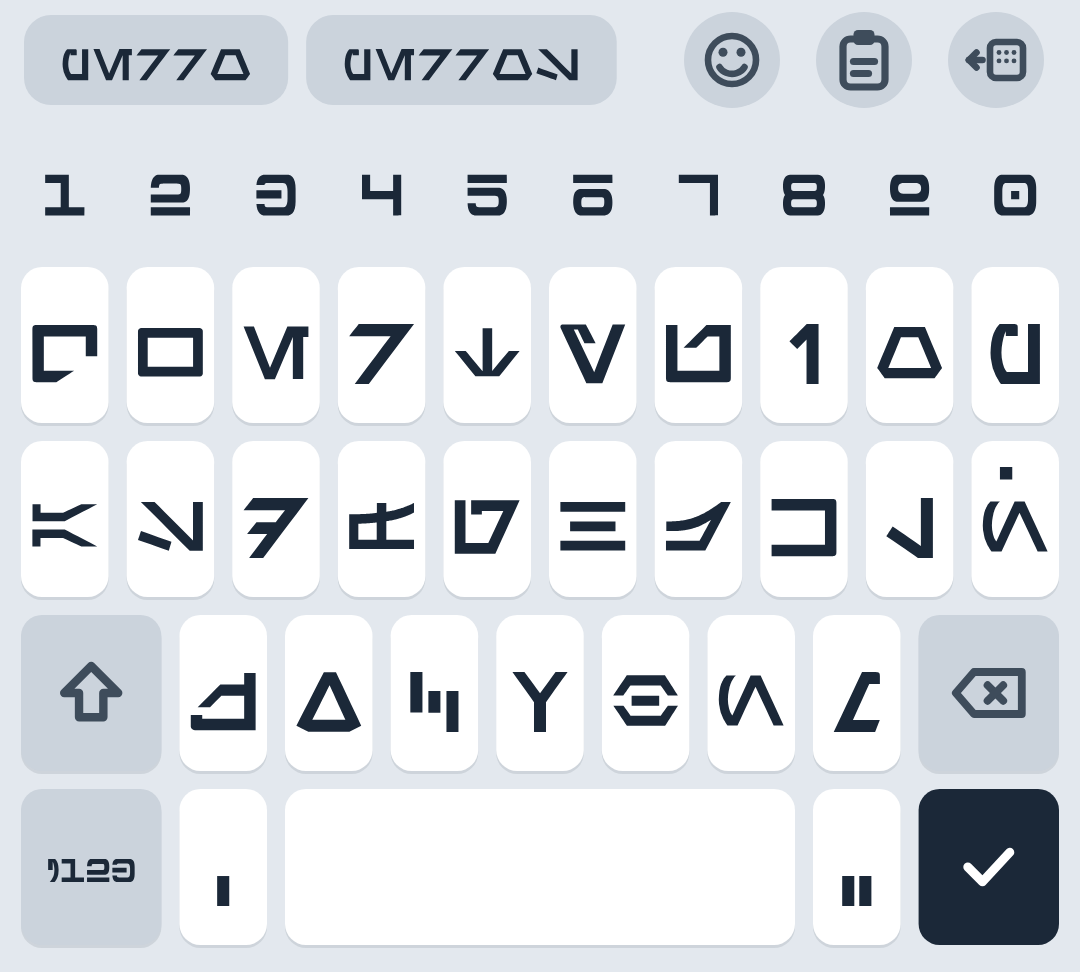
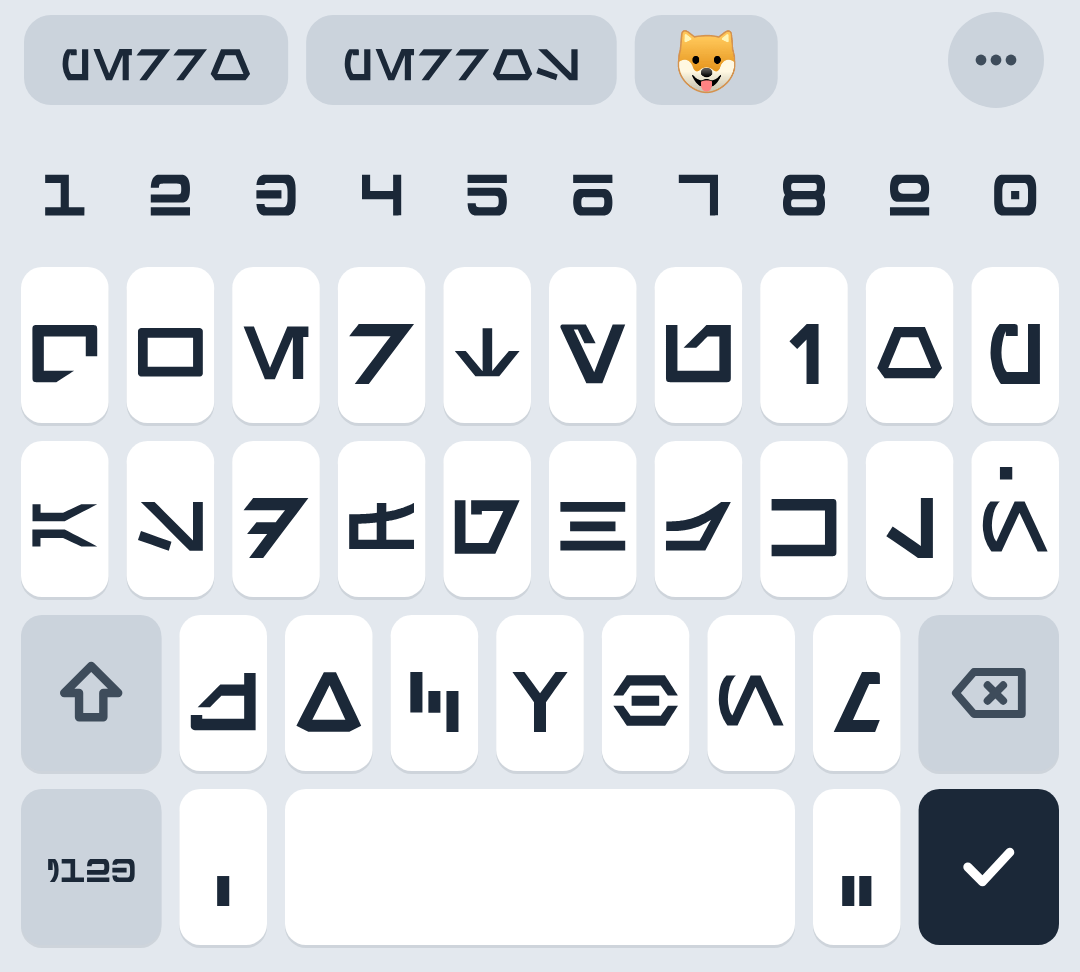
1.8.2 (parcial): iconos tras ... mientras hay sugerencias; chip Pegar con lo recién copiado (texto o imagen)
Claude-Session: https://claude.ai/code/session_0169nLUo7BxaBWms1Bxz2s9J

Changed region(s): [[0.6111, 0.0309, 0.7028, 0.0926], [0.8861, 0.0309, 0.9472, 0.0926], [0.7639, 0.0309, 0.825, 0.0926]]

diff --git a/app/src/main/java/com/aurebesh/teclado/AurebeshKeyboardView.java b/app/src/main/java/com/aurebesh/teclado/AurebeshKeyboardView.java
@@ -2,11 +2,13 @@ package com.aurebesh.teclado;
 
 import android.content.Context;
 import android.content.res.Configuration;
+import android.graphics.Bitmap;
 import android.graphics.Canvas;
 import android.graphics.Paint;
 import android.graphics.Path;
 import android.graphics.RectF;
 import android.graphics.Typeface;
+import android.text.TextUtils;
 import android.os.Handler;
 import android.os.Looper;
 import android.util.SparseArray;
@@ -29,6 +31,7 @@ public final class AurebeshKeyboardView extends View {
         void onSuggestion(String word); // toque en una sugerencia de la barra
         void onToolbar(int tool);       // icono de la barra de herramientas (TOOL_*)
         void onHandSide(int mode);      // flecha del modo a una mano: 1 izquierda, 2 derecha
+        void onPasteSuggestion();       // chip "Pegar" de lo recien copiado
     }
 
     static final int CODE_TEXT = 0;
@@ -118,6 +121,12 @@ public final class AurebeshKeyboardView extends View {
     private boolean toolbar = true;         // iconos sobre las teclas cuando no hay sugerencias
     private final RectF[] toolRects = new RectF[4];
     private final RectF sideRect = new RectF();     // flecha para cambiar de lado en modo a una mano
+    private final RectF moreRect = new RectF();     // "..." que muestra los iconos sobre las sugerencias
+    private boolean toolsOverChips = false;
+    private final RectF pasteRect = new RectF();    // chip "Pegar" de lo recien copiado
+    private Bitmap pasteThumb;
+    private String pasteLabel;
+    private String pasteAction = "Pegar";
     private int toolPressed = -1;
     private int toolPointer = -1;
     private boolean previewEnabled = true;
@@ -264,9 +273,20 @@ public final class AurebeshKeyboardView extends View {
     void setSuggestions(List<String> words, String highlight) {
         suggestions.clear();
         if (words != null) suggestions.addAll(words);
+        if (suggestions.isEmpty()) toolsOverChips = false;
         highlighted = highlight;
         invalidate();
     }
+
+    /** Chip "Pegar" con lo recien copiado (miniatura o fragmento de texto); null lo quita. */
+    void setPasteSuggestion(Bitmap thumb, String label, String action) {
+        pasteThumb = thumb;
+        pasteLabel = label;
+        if (action != null) pasteAction = action;
+        invalidate();
+    }
+
+    boolean hasPasteSuggestion() { return pasteThumb != null || pasteLabel != null; }
 
     /** Barra de herramientas (emojis y portapapeles) a la derecha de las sugerencias. */
     void setToolbar(boolean on) {
@@ -792,10 +812,76 @@ public final class AurebeshKeyboardView extends View {
         suggestionRects.clear();
         for (int i = 0; i < toolRects.length; i++) toolRects[i] = null;
         float right = getWidth() - 12 * dp;
-        if (toolbar) right = drawToolbar(c);
-        if (!suggestions.isEmpty()) drawSuggestions(c, h, top, right);
-        else if (showStrip) drawTranslation(c, h, top, 12 * dp, right);
+        boolean chips = !suggestions.isEmpty();
+        moreRect.setEmpty();
+        pasteRect.setEmpty();
+        if (toolbar && (!chips || toolsOverChips)) right = drawToolbar(c);
+        else if (toolbar) right = drawMore(c);
+        if (chips) {
+            drawSuggestions(c, h, top, right);
+        } else {
+            float left = 12 * dp;
+            if (hasPasteSuggestion()) left = drawPasteChip(c, right);
+            if (showStrip) drawTranslation(c, h, top, left, right);
+        }
         if (theme.keyStroke != 0) c.drawRect(0, stripHeight() - dp, getWidth(), stripHeight(), strokePaint);
+    }
+
+    /** Boton "..." a la derecha mientras hay sugerencias: muestra los iconos de la barra. */
+    private float drawMore(Canvas c) {
+        float cy = stripHeight() / 2f, cx = getWidth() - 6 * dp - 22 * dp;
+        moreRect.set(getWidth() - 50 * dp, 0, getWidth(), stripHeight());
+        fill.setColor(theme.specialBg);
+        c.drawCircle(cx, cy, 16 * dp, fill);
+        if (theme.keyStroke != 0) c.drawCircle(cx, cy, 16 * dp, strokePaint);
+        fill.setColor(theme.icon);
+        for (int i = -1; i <= 1; i++) c.drawCircle(cx + i * 5 * dp, cy, 1.8f * dp, fill);
+        return moreRect.left - 4 * dp;
+    }
+
+    /** Chip con lo recien copiado (miniatura o texto) y la palabra "Pegar". Devuelve su borde derecho. */
+    private float drawPasteChip(Canvas c, float right) {
+        float h = stripHeight() - 10 * dp, top = 5 * dp, x = 8 * dp;
+        textPaint.setTextSize(13 * sp);
+        textPaint.setTextAlign(Paint.Align.LEFT);
+        textPaint.setTypeface(Typeface.create(Typeface.SANS_SERIF, Typeface.BOLD));
+        float actionW = textPaint.measureText(pasteAction);
+        textPaint.setTypeface(Typeface.create(Typeface.SANS_SERIF, Typeface.NORMAL));
+        float thumbW = pasteThumb != null ? h - 6 * dp : 0;
+        float maxText = Math.max(0, right - x - actionW - thumbW - 40 * dp);
+        String label = pasteLabel == null ? "" : TextUtils.ellipsize(pasteLabel.replace('\n', ' '), new android.text.TextPaint(textPaint), Math.min(maxText, 160 * dp), TextUtils.TruncateAt.END).toString();
+        float labelW = label.isEmpty() ? 0 : textPaint.measureText(label) + 6 * dp;
+        float w = 12 * dp + (thumbW > 0 ? thumbW + 8 * dp : 0) + labelW + actionW + 12 * dp;
+        pasteRect.set(x, top, Math.min(right, x + w), top + h);
+        fill.setColor(theme.keyBg);
+        c.drawRoundRect(pasteRect, h / 2f, h / 2f, fill);
+        if (theme.keyStroke != 0) c.drawRoundRect(pasteRect, h / 2f, h / 2f, strokePaint);
+        c.save();
+        c.clipRect(pasteRect);
+        float cx = pasteRect.left + 12 * dp, cy = pasteRect.centerY();
+        if (pasteThumb != null) {
+            tmp.set(cx, top + 3 * dp, cx + thumbW, top + 3 * dp + thumbW);
+            c.save();
+            iconPath.reset();
+            iconPath.addRoundRect(tmp, 4 * dp, 4 * dp, Path.Direction.CW);
+            c.clipPath(iconPath);
+            c.drawBitmap(pasteThumb, null, tmp, fill);
+            c.restore();
+            cx += thumbW + 8 * dp;
+        }
+        if (!label.isEmpty()) {
+            textPaint.setColor(theme.hint);
+            c.drawText(label, cx, cy + 4.5f * dp, textPaint);
+            cx += labelW;
+        }
+        textPaint.setTypeface(Typeface.create(Typeface.SANS_SERIF, Typeface.BOLD));
+        textPaint.setColor(theme.accent == theme.glyph ? theme.glyph : theme.accent);
+        c.drawText(pasteAction, cx, cy + 4.5f * dp, textPaint);
+        textPaint.setTypeface(Typeface.create(Typeface.SANS_SERIF, Typeface.NORMAL));
+        textPaint.setColor(theme.glyph);
+        textPaint.setTextAlign(Paint.Align.CENTER);
+        c.restore();
+        return pasteRect.right + 10 * dp;
     }
 
     private int[] tools() { return current != letters ? TOOLS_SYMBOLS : TOOLS_LETTERS; }
@@ -967,8 +1053,19 @@ public final class AurebeshKeyboardView extends View {
                     pressed.removeAt(i);
                 }
                 cancelTimers();
-                if (e.getY(idx) < stripHeight()) {                       // barra: sugerencias o iconos
+                if (e.getY(idx) < stripHeight()) {                       // barra: sugerencias, pegar o iconos
                     float tx = e.getX(idx), ty = e.getY(idx);
+                    if (!pasteRect.isEmpty() && pasteRect.contains(tx, ty) && listener != null) {
+                        feedback(special("", CODE_SPACE, 1f));
+                        listener.onPasteSuggestion();
+                        return true;
+                    }
+                    if (!moreRect.isEmpty() && moreRect.contains(tx, ty)) {
+                        feedback(special("", CODE_SPACE, 1f));
+                        toolsOverChips = true;
+                        invalidate();
+                        return true;
+                    }
                     for (int i = 0; i < suggestionRects.size(); i++) {
                         if (suggestionRects.get(i).contains(tx, ty) && listener != null) {
                             feedback(special("", CODE_SPACE, 1f));

diff --git a/app/src/main/java/com/aurebesh/teclado/AurebeshIME.java b/app/src/main/java/com/aurebesh/teclado/AurebeshIME.java
@@ -65,8 +65,11 @@ public class AurebeshIME extends InputMethodService
     private final ExecutorService worker = Executors.newSingleThreadExecutor();
     private final Handler main = new Handler(Looper.getMainLooper());
 
-    // Portapapeles
+    // Portapapeles y chip "Pegar" de lo recien copiado
+    private static final long PASTE_FRESH_MS = 2 * 60 * 1000L;
     private long lastClipStamp = -1;
+    private ClipHistory.Entry fresh;             // lo ultimo copiado, candidato al chip "Pegar"
+    private long freshAt = 0;                    // cuando se copio (reloj de pared)
     private final ClipboardManager.OnPrimaryClipChangedListener clipListener =
             new ClipboardManager.OnPrimaryClipChangedListener() {
                 @Override public void onPrimaryClipChanged() { captureClip(); }
@@ -182,6 +185,7 @@ public class AurebeshIME extends InputMethodService
         clearSuggestions();
         applyLanguage();
         captureClip();
+        showPasteChip();
         refresh();
     }
 
@@ -432,6 +436,7 @@ public class AurebeshIME extends InputMethodService
         } else {
             lastSpaceAt = 0;
         }
+        if (!separator && fresh != null) clearPasteChip();
         if (separator && applyCorrection(ic, text)) return;
         if (!separator) lastCorrection = null;
         ic.commitText(text, 1);
@@ -624,20 +629,59 @@ public class AurebeshIME extends InputMethodService
             lastClipStamp = stamp;
             ClipData.Item item = clip.getItemAt(0);
             Uri uri = item.getUri();
+            ClipHistory.Entry added = null;
             if (uri != null && item.getText() == null) {
                 String type = null;
                 try { type = getContentResolver().getType(uri); } catch (RuntimeException ignored) {}
                 if (type == null && d != null && d.getMimeTypeCount() > 0) type = d.getMimeType(0);
-                if (type != null && type.startsWith("image/")) {
-                    ClipHistory.addImage(this, uri, type);
-                    return;
+                if (type != null && type.startsWith("image/")) added = ClipHistory.addImage(this, uri, type);
+            }
+            if (added == null) {
+                CharSequence t = item.coerceToText(this);
+                if (!TextUtils.isEmpty(t)) {
+                    ClipHistory.addText(this, t);
+                    added = new ClipHistory.Entry(ClipHistory.Entry.TEXT, t.toString(), null, null);
                 }
             }
-            CharSequence t = item.coerceToText(this);
-            if (!TextUtils.isEmpty(t)) ClipHistory.addText(this, t);
+            if (added != null) {
+                fresh = added;
+                freshAt = stamp > 0 ? stamp : System.currentTimeMillis();
+                showPasteChip();
+            }
         } catch (RuntimeException ignored) {
             // sin acceso al portapapeles en este momento
         }
+    }
+
+    /** Chip "Pegar" mientras lo copiado sea reciente y no se haya empezado a escribir una palabra. */
+    private void showPasteChip() {
+        if (view == null) return;
+        if (fresh == null || privateField || System.currentTimeMillis() - freshAt > PASTE_FRESH_MS) {
+            fresh = null;
+            view.setPasteSuggestion(null, null, null);
+            return;
+        }
+        if (fresh.isImage()) view.setPasteSuggestion(ClipHistory.thumbnail(fresh, 160), null, getString(R.string.paste));
+        else view.setPasteSuggestion(null, fresh.text, getString(R.string.paste));
+    }
+
+    private void clearPasteChip() {
+        fresh = null;
+        if (view != null) view.setPasteSuggestion(null, null, null);
+    }
+
+    @Override
+    public void onPasteSuggestion() {
+        ClipHistory.Entry e = fresh;
+        clearPasteChip();
+        if (e == null) return;
+        if (e.isImage()) { commitImage(e); return; }
+        InputConnection ic = getCurrentInputConnection();
+        if (ic == null || e.text == null) return;
+        applyCorrection(ic, "");
+        ic.commitText(e.text, 1);
+        lastCorrection = null;
+        lastSpaceAt = 0;
     }
 
     private void openClipboard() {

diff --git a/screenshot-test/src/test/java/com/aurebesh/teclado/ScreenshotTest.java b/screenshot-test/src/test/java/com/aurebesh/teclado/ScreenshotTest.java
@@ -94,6 +94,7 @@ public class ScreenshotTest {
             public void onSuggestion(String w) { typed.append("[").append(w).append("]"); }
             public void onToolbar(int t) { typed.append("<tool").append(t).append(">"); }
             public void onHandSide(int m) { typed.append("<side").append(m).append(">"); }
+            public void onPasteSuggestion() { typed.append("<paste>"); }
         });
         kb.setEnterAction(4);
 
@@ -241,10 +242,28 @@ public class ScreenshotTest {
         typed.setLength(0);
         kb.setHandMode(0);
 
-        // Chips de emoji en la barra de sugerencias
+        // Chips de emoji en la barra de sugerencias; los iconos se esconden tras "..." mientras hay chips
         kb.setSuggestions(java.util.Arrays.asList("perro", "perros", "\uD83D\uDC36", "\uD83D\uDC15"), null);
         save(render(kb), "sugerencias_emoji.png");
+        typed.setLength(0);
+        tap(kb, W - 28 * dp, 20 * dp);                 // "..." -> aparecen los iconos
+        render(kb);
+        tap(kb, W - 116 * dp, 20 * dp);
+        if (!typed.toString().equals("<tool1>")) throw new AssertionError("mas: " + typed);
+        typed.setLength(0);
         kb.setSuggestions(null, null);
+
+        // Chip "Pegar" con lo recien copiado: texto e imagen
+        kb.setPasteSuggestion(null, "Que la Fuerza te acompañe, siempre", "Pegar");
+        save(render(kb), "pegar_texto.png");
+        tap(kb, 60 * dp, 20 * dp);
+        if (!typed.toString().equals("<paste>")) throw new AssertionError("pegar: " + typed);
+        typed.setLength(0);
+        Bitmap thumb = Bitmap.createBitmap(120, 80, Bitmap.Config.ARGB_8888);
+        thumb.eraseColor(0xFF7FD3F0);
+        kb.setPasteSuggestion(thumb, null, "Pegar");
+        save(render(kb), "pegar_imagen.png");
+        kb.setPasteSuggestion(null, null, null);
         java.util.List<String> dogs = EmojiSuggest.lookup(app, "perro", 3);
         if (!dogs.contains("\uD83D\uDC36") && !dogs.contains("\uD83D\uDC15")) throw new AssertionError("emoji perro: " + dogs);
         if (!EmojiSuggest.lookup(app, "pizza", 2).contains("\uD83C\uDF55")) throw new AssertionError("emoji pizza");

diff --git a/app/src/main/java/com/aurebesh/teclado/MainActivity.java b/app/src/main/java/com/aurebesh/teclado/MainActivity.java
@@ -211,6 +211,7 @@ public final class MainActivity extends Activity {
             @Override public void onSwitchKeyboard() {}
             @Override public void onSwitchLanguage() {}
             @Override public void onHandSide(int mode) { Prefs.setHand(MainActivity.this, mode == 1 ? "left" : "right"); applyPreviewPrefs(); }
+            @Override public void onPasteSuggestion() {}
             @Override public void onSuggestion(String word) { replaceSelection(word + " "); }
             @Override public void onToolbar(int tool) {
                 // En la copia del teclado: un emoji de muestra o pegar el portapapeles

diff --git a/app/src/main/java/com/aurebesh/teclado/EmojiTray.java b/app/src/main/java/com/aurebesh/teclado/EmojiTray.java
@@ -234,6 +234,7 @@ final class EmojiTray extends LinearLayout {
             }
             @Override public void onEnter() {}
             @Override public void onHandSide(int mode) {}
+            @Override public void onPasteSuggestion() {}
             @Override public void onSwitchKeyboard() {}
             @Override public void onSwitchLanguage() {}
             @Override public void onSuggestion(String word) {}
